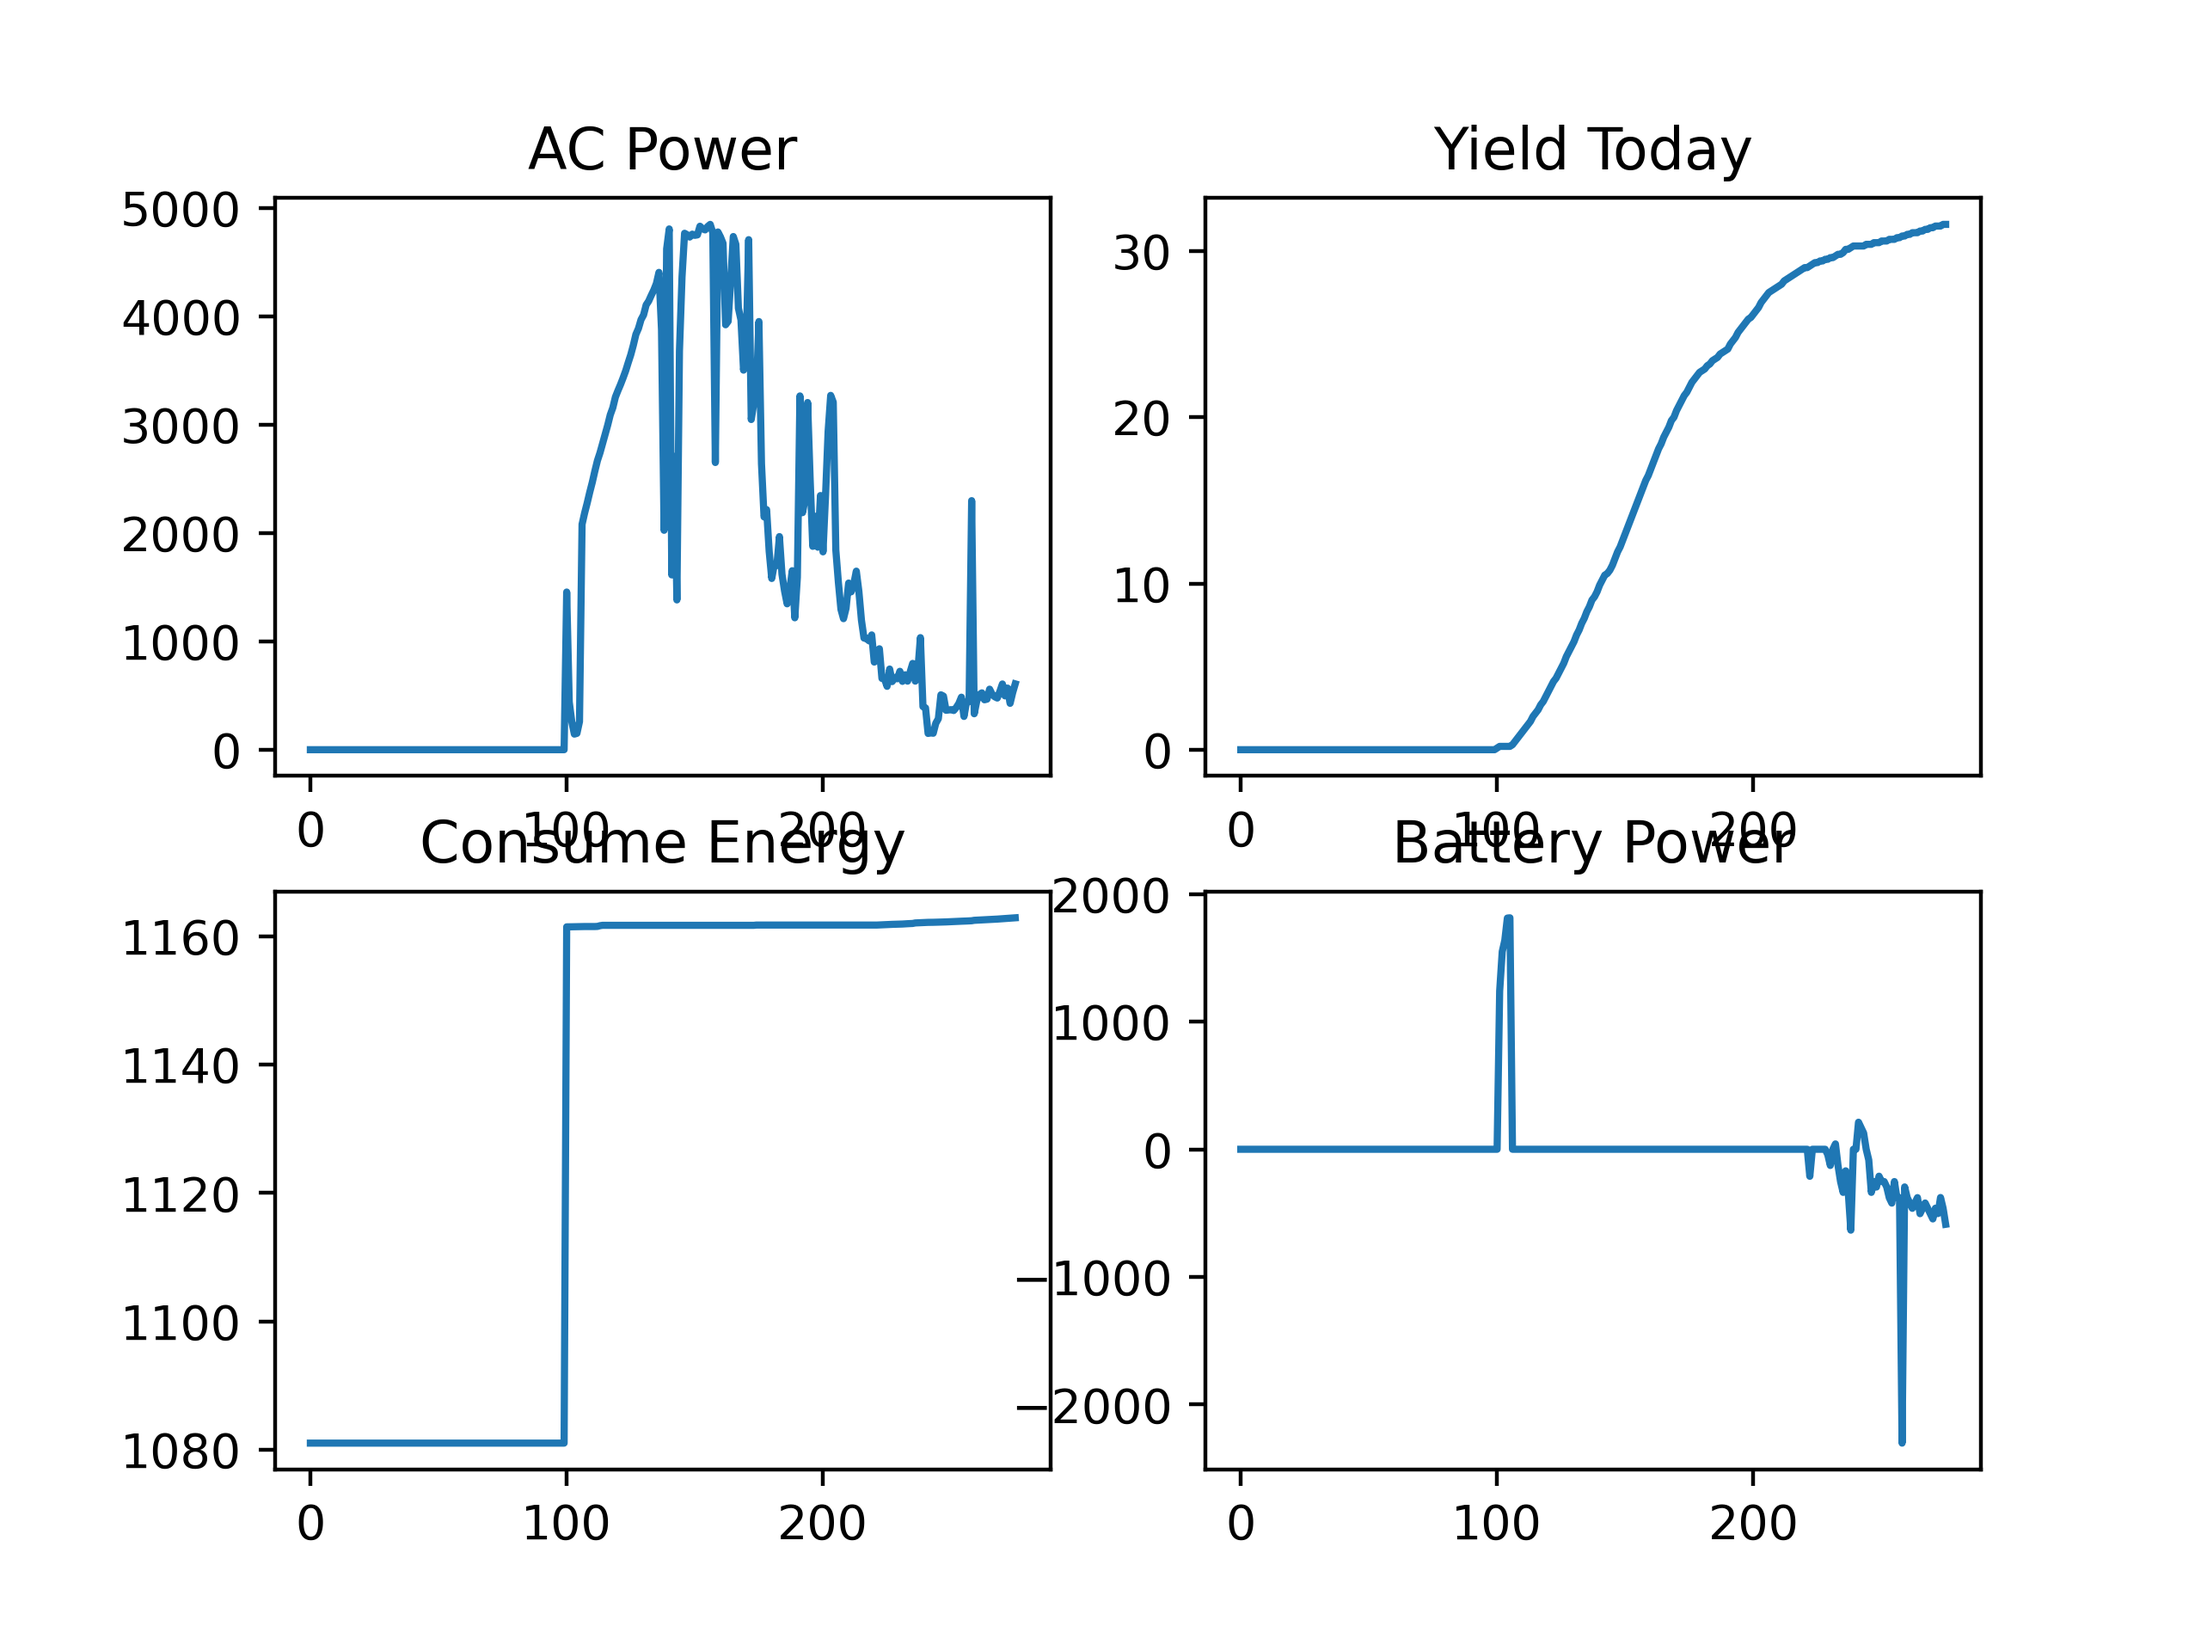
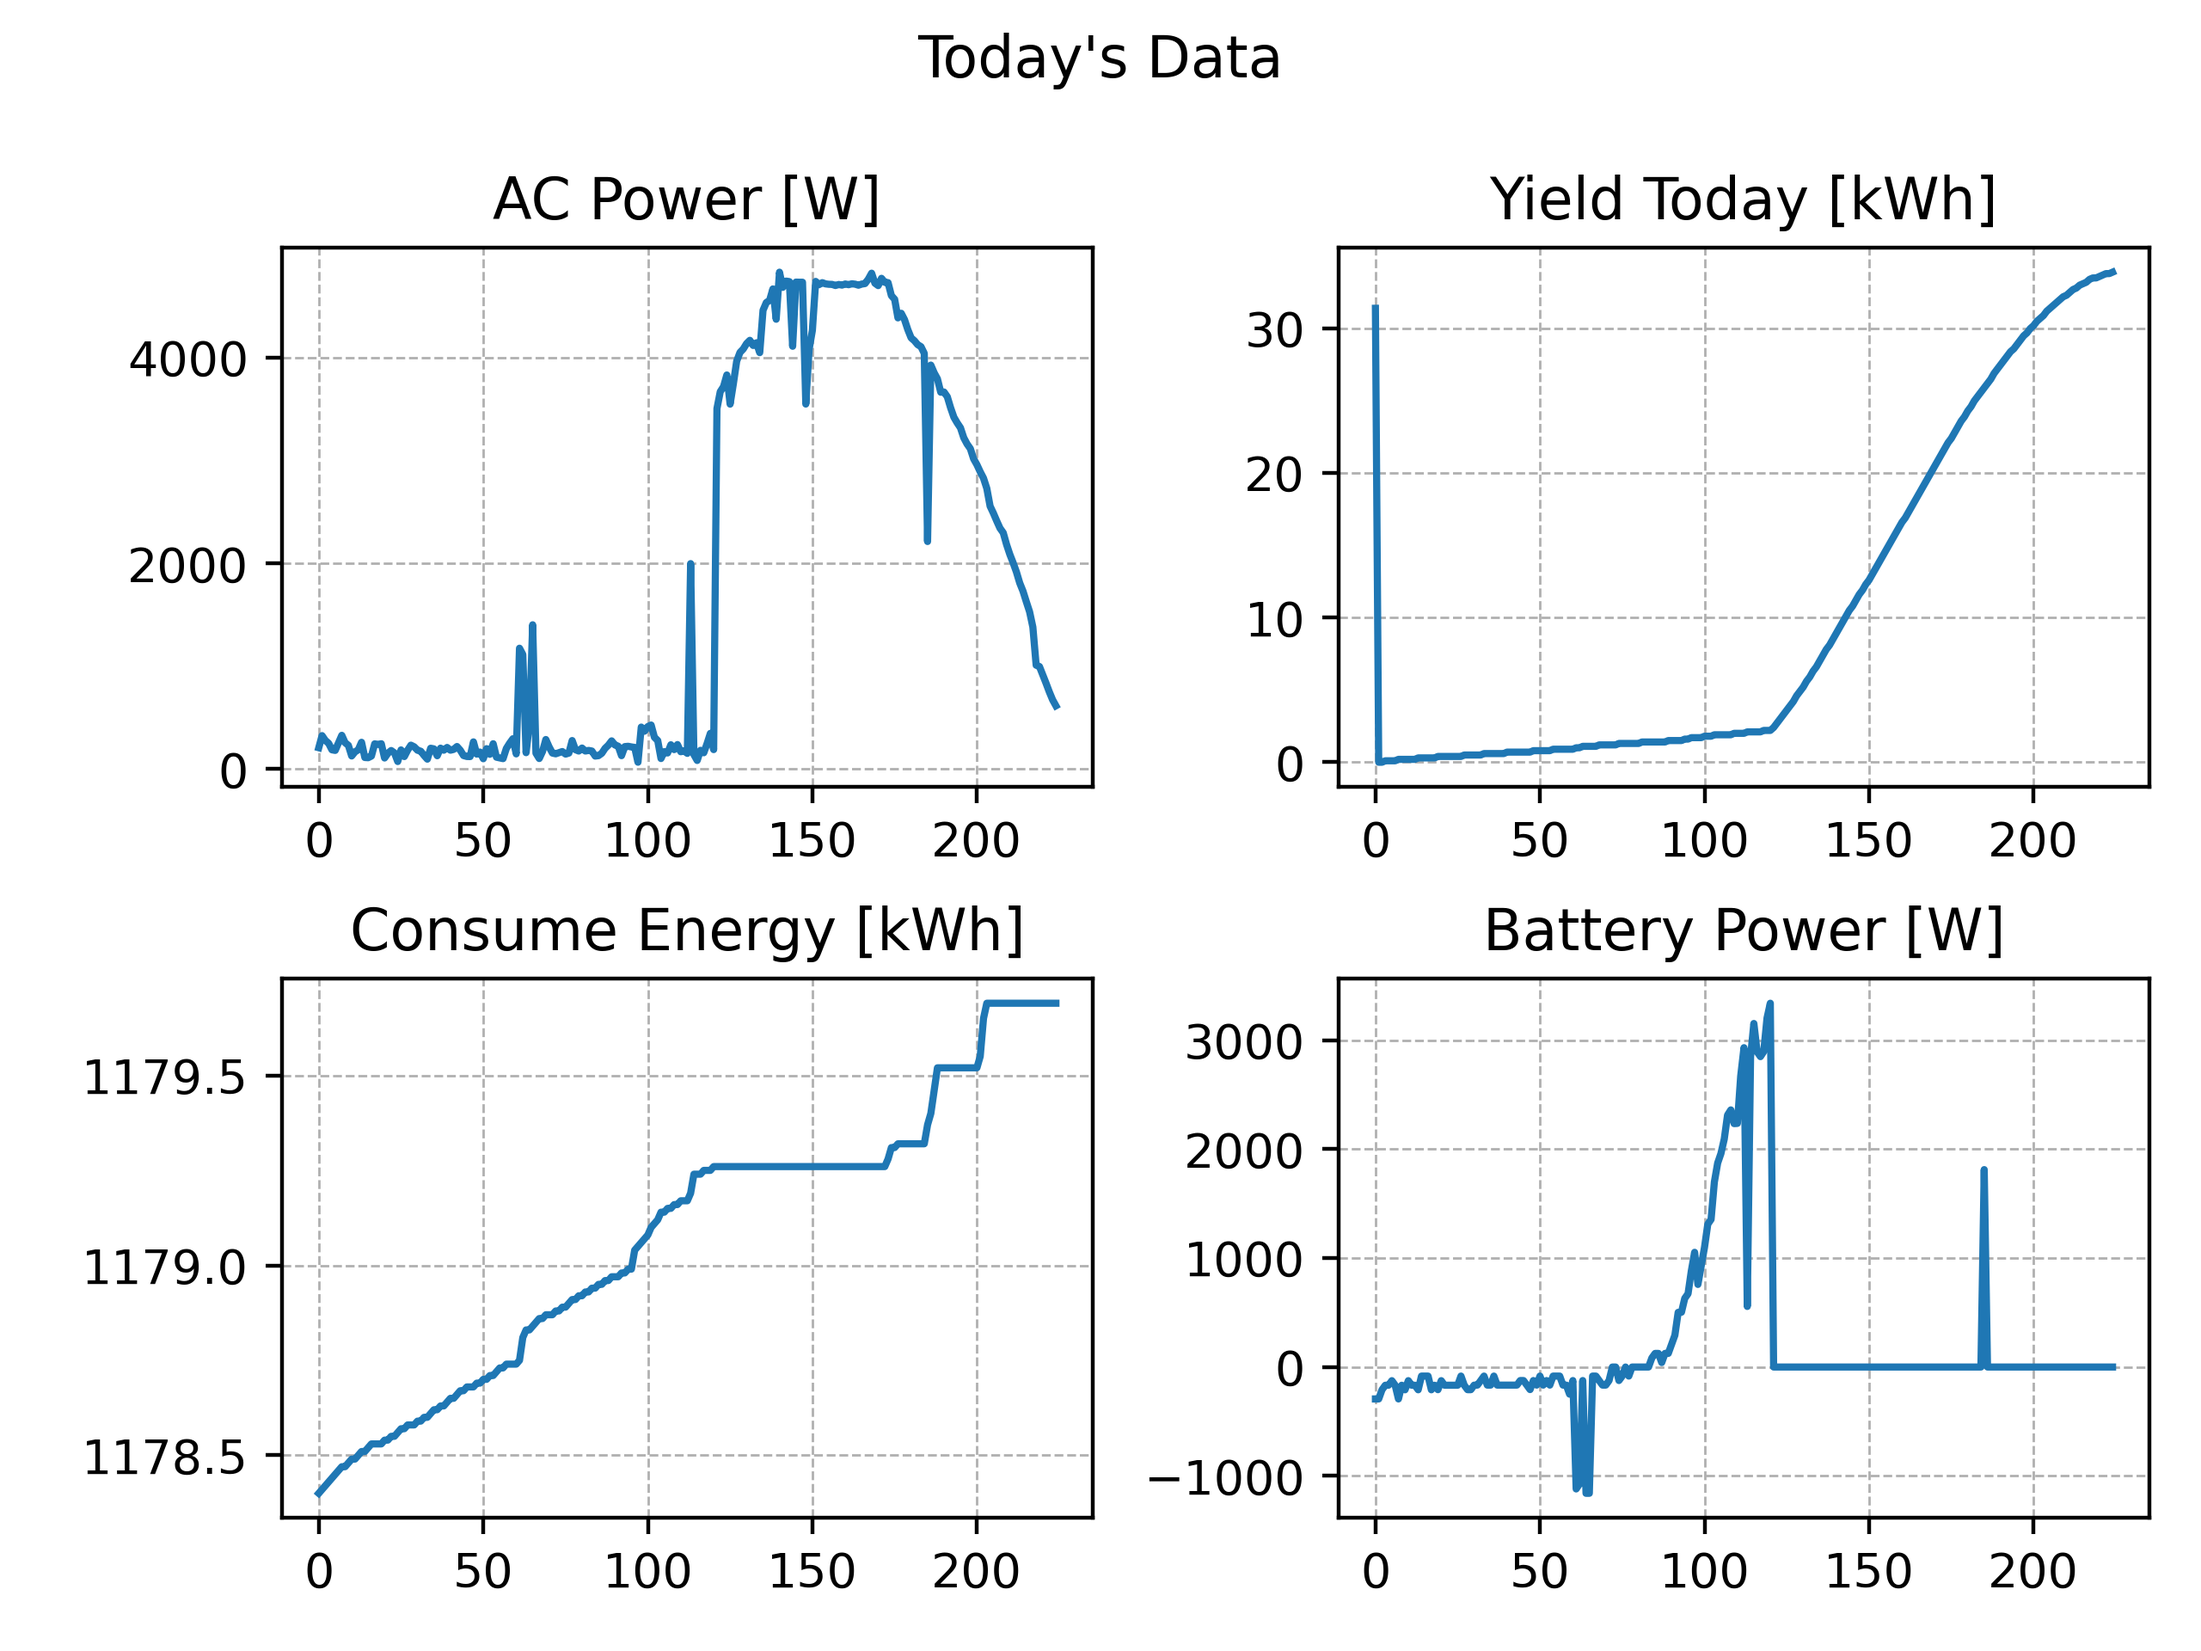
updates on plotting

diff --git a/plots/subplots.py b/plots/subplots.py
@@ -15,21 +15,28 @@ data = pandas.read_sql(sql, con)
 # AC Power
 plt.subplot(2, 2, 1)
 plt.plot(data.acpower, label = "AC Power")
-plt.title("AC Power")
+plt.title("AC Power [W]")
+plt.grid(linestyle = '--', linewidth = 0.5)
 
 # Yield Today
 plt.subplot(2, 2, 2)
 plt.plot(data.yieldtoday, label = "Yield Today")
-plt.title("Yield Today")
+plt.title("Yield Today [kWh]")
+plt.grid(linestyle = '--', linewidth = 0.5)
 
 # Consume Energy
 plt.subplot(2, 2, 3)
 plt.plot(data.consumeenergy, label = "Consume Energy")
-plt.title("Consume Energy")
+plt.title("Consume Energy [kWh]")
+plt.grid(linestyle = '--', linewidth = 0.5)
 
 # Battery Power
 plt.subplot(2, 2, 4)
 plt.plot(data.batPower, label = "Battery Power")
-plt.title("Battery Power")
+plt.title("Battery Power [W]")
+plt.grid(linestyle = '--', linewidth = 0.5)
 
+plt.tight_layout()
+plt.suptitle("Today's Data")
+plt.subplots_adjust(top=0.85)
 plt.savefig('sub0.png', dpi=400)
